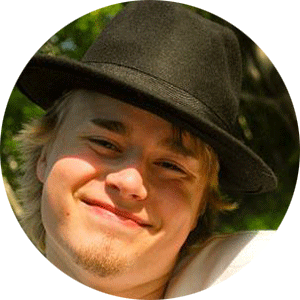
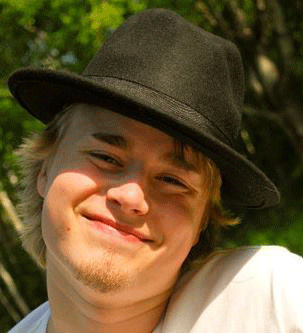
Sexy version 2

diff --git a/index.html b/index.html
@@ -4,10 +4,20 @@
   <style>
     body {
       text-align: center;
+      color: #909090;
+      font-family: 'Helvetica', 'Avenir', 'Arial', sans-serif;
     }
 
     a {
-      color: #000;
+      color: #909090;
+    }
+
+    a:hover {
+      color: #F40000;
+    }
+
+    img.avatar {
+      border-radius: 50%;
     }
 
     .fa {
@@ -15,7 +25,7 @@
     }
   </style>
 </head>
-<img src="avatar.png" alt="avatar">
+<img src="avatar.png" class="avatar" alt="avatar">
 <p>Hi, I'm Mike!</p>
 <p>
   <a href="https://github.com/lisinge"><i class="fa fa-github"></i></a>
